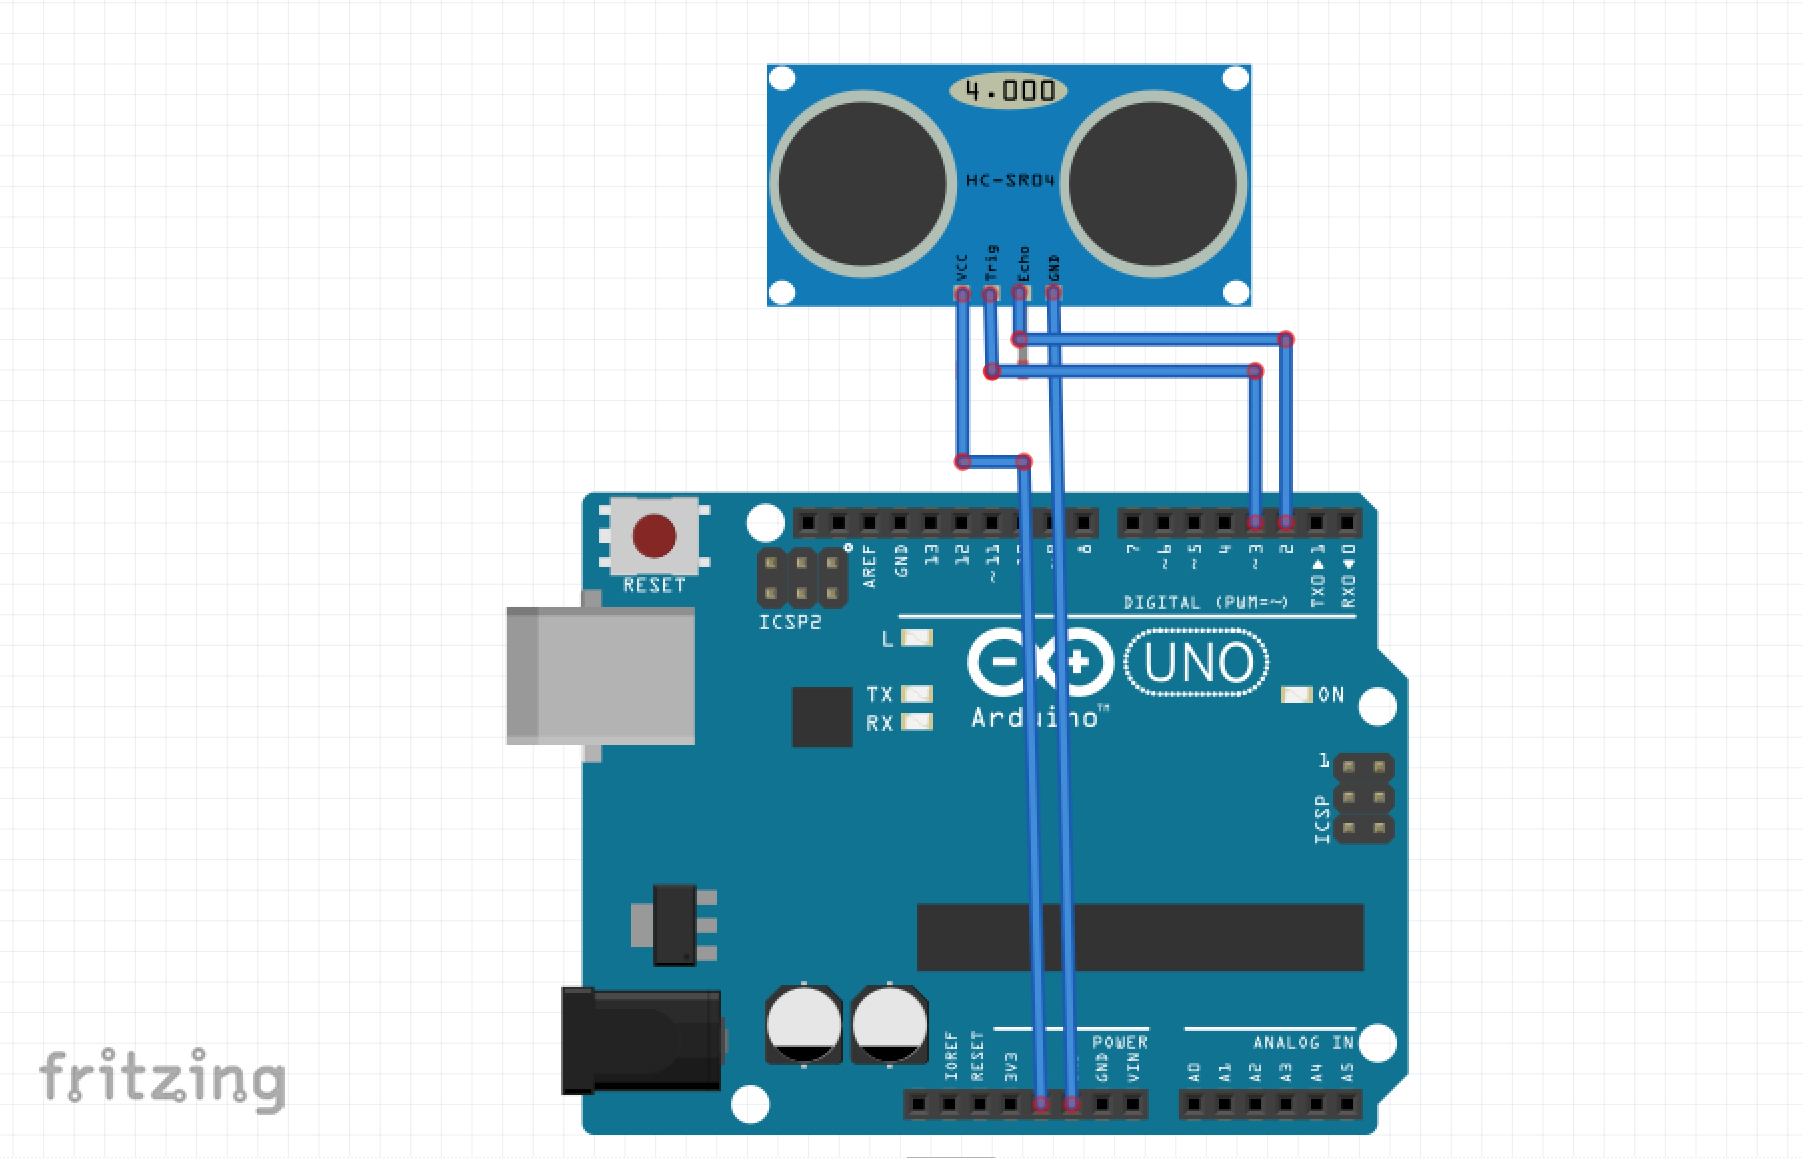
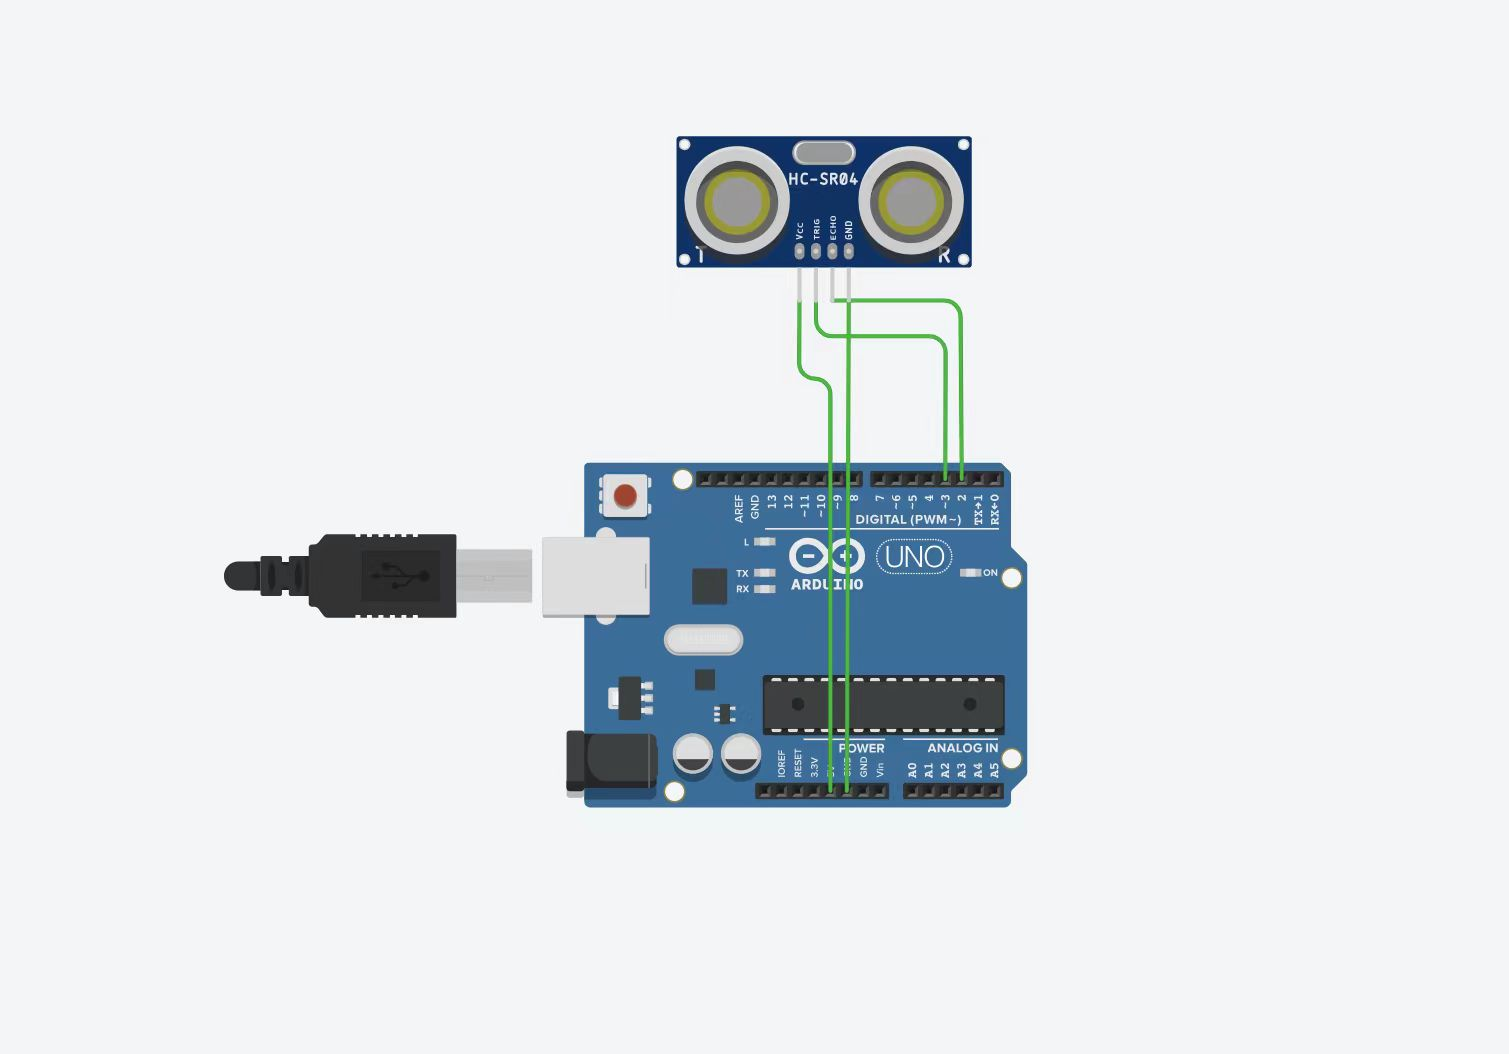
Site updated: 2023-11-26 19:06:34

diff --git a/2023/10/23/pro3/index.html b/2023/10/23/pro3/index.html
@@ -175,7 +175,7 @@
 <td>Enabled</td>
 </tr>
 </tbody></table>
-<p>(nozzle temperature 200°; platform temperature30℃；fill density 15%; base plate enabled)<br><img src="/2023zjudemini-hi2/images/1.gif"><br>2. Printing process<br><img src="/2023zjudemini-hi2/images/3.gif"></p>
+<p>(nozzle temperature 200°; platform temperature30℃；fill density 15%; base plate enabled)<br>3d print software layout the mode<br><img src="/2023zjudemini-hi2/images/3dx.png"><br><img src="/2023zjudemini-hi2/images/1.gif"><br>2. Printing process<br><img src="/2023zjudemini-hi2/images/3.gif"></p>
 <p>Tips：When the temperature is too low, it is easy for printing to fail. As shown in the figure below, the print sticks to the print pin.<br>Advice：Do not lower the temperature below 40° C<br><img src="/2023zjudemini-hi2/images/D4.png"><br></br></p>
 <center>
 
@@ -240,7 +240,7 @@
 <h1 id="Laser-Cutting"><a href="#Laser-Cutting" class="headerlink" title="Laser Cutting"></a>Laser Cutting</h1></center>
 
 <h2 id="Introduction-1"><a href="#Introduction-1" class="headerlink" title="Introduction"></a>Introduction</h2><h3 id="Types-of-Laser-Cutting"><a href="#Types-of-Laser-Cutting" class="headerlink" title="Types of Laser Cutting"></a>Types of Laser Cutting</h3><p>This process can be broken down into three main techniques - CO2 laser (for cutting, boring, and engraving), and neodymium (Nd) and neodymium yttrium-aluminium-garnet (Nd:YAG), which are identical in style, with Nd being used for high energy, low repetition boring and Nd:YAG used for very high-power boring and engraving.<br><img src="/2023zjudemini-hi2/images/D5.png"><br></br></p>
-<h3 id="Applications-of-Lasers-in-Manufacturing"><a href="#Applications-of-Lasers-in-Manufacturing" class="headerlink" title="Applications of Lasers in Manufacturing"></a>Applications of Lasers in Manufacturing</h3><p>1. <strong>Laser Drilling</strong><br>Lasers are incredibly accurate at drilling micron-sized holes in a wide range of materials, including metals, polymers, and ceramics.<br><img src="/2023zjudemini-hi2/images/D6.png"><br></br><br>2.<strong>Surface Texturing</strong>  <br>Lasers can create textures or patterned microstructures on the surfaces of components or products that improve physical performance, such as wear rates, grip, optical properties, and load capacity. Laser micro-texturing can create roughness on medical implants that make it easier for new tissue or bone to take hold and grow into the new implant, and patterns with features as small as 10 µm can be produced with very high depth resolution.<br><img src="/2023zjudemini-hi2/images/D6.png"><br></br></p>
+<h3 id="Applications-of-Lasers-in-Manufacturing"><a href="#Applications-of-Lasers-in-Manufacturing" class="headerlink" title="Applications of Lasers in Manufacturing"></a>Applications of Lasers in Manufacturing</h3><p>1. <strong>Laser Drilling</strong><br>Lasers are incredibly accurate at drilling micron-sized holes in a wide range of materials, including metals, polymers, and ceramics.<br><img src="/2023zjudemini-hi2/images/D6.png"><br></br><br>2.<strong>Surface Texturing</strong>  <br>Lasers can create textures or patterned microstructures on the surfaces of components or products that improve physical performance, such as wear rates, grip, optical properties, and load capacity. Laser micro-texturing can create roughness on medical implants that make it easier for new tissue or bone to take hold and grow into the new implant, and patterns with features as small as 10 µm can be produced with very high depth resolution.<br><img src="/2023zjudemini-hi2/images/D7.png"><br></br></p>
 <h3 id="References-1"><a href="#References-1" class="headerlink" title="References"></a>References</h3><p><a target="_blank" rel="noopener" href="https://laser24.co.uk/news/what-are-the-main-advantages-of-laser-cutting/">laser24.co.uk</a><br><a target="_blank" rel="noopener" href="https://www.twi-global.com/what-we-do/research-and-technology/technologies/welding-joining-and-cutting/lasers/laser-scabbling">Laser Scabbling - TWI (twi-global.com)</a><br></br></p>
 <h2 id="Power-and-Speed-Test"><a href="#Power-and-Speed-Test" class="headerlink" title="Power and Speed Test"></a>Power and Speed Test</h2><p>1.The software sets the power and speed of the test pattern hierarchically.<br><img src="/2023zjudemini-hi2/images/l1.png"><br></br><br>2.Cutting test with machine.<br><img src="/2023zjudemini-hi2/images/l2.png"><br></br><br>3.The two results of the laser cutting.<br><img src="/2023zjudemini-hi2/images/l3.png"><br></br><br>4.Statistics on cutting test results.</p>
 <table>
@@ -308,7 +308,7 @@
 </tr>
 </tbody></table>
 <h2 id="Cutting-Accuracy-Test"><a href="#Cutting-Accuracy-Test" class="headerlink" title="Cutting Accuracy Test"></a>Cutting Accuracy Test</h2><p>1.Import cutting target image to the machine.<br><img src="/2023zjudemini-hi2/images/l4.png"><br></br><br>2.Measure the actual length to see the error. The width of a single part is 5mm, the number is 10, the total statistical length is 46.96mm, and the error is 3.04mm. Therefore, the value of Kurf is 3.04&#x2F;10&#x3D;0.304mm.<br><img src="/2023zjudemini-hi2/images/l5.png"><br></br></p>
-<h2 id="Laser-Cutting-Practice"><a href="#Laser-Cutting-Practice" class="headerlink" title="Laser Cutting Practice"></a>Laser Cutting Practice</h2><h3 id="Preparation"><a href="#Preparation" class="headerlink" title="Preparation"></a>Preparation</h3><p>1.open fume extractor before run the machine<br>2.Turn on the master switch<br><img src="/2023zjudemini-hi2/images/ll1.png"><br>3.Turn on the laser<br><img src="/2023zjudemini-hi2/images/ll2.png"><br>4.Access computer<br><img src="/2023zjudemini-hi2/images/ll3.png"><br>5.Open the lid<br><img src="/2023zjudemini-hi2/images/ll4.png"><br>6.Moving Laser Position<br><img src="/2023zjudemini-hi2/images/ll5.png"><br>7.Mobile platforms for positioning 1<br><img src="/2023zjudemini-hi2/images/ll6.png"><br>8.Mobile platforms for positioning 2<br><img src="/2023zjudemini-hi2/images/ll7.png"><br></br></p>
+<h2 id="Laser-Cutting-Practice"><a href="#Laser-Cutting-Practice" class="headerlink" title="Laser Cutting Practice"></a>Laser Cutting Practice</h2><h3 id="Preparation"><a href="#Preparation" class="headerlink" title="Preparation"></a>Preparation</h3><p>1.open fume extractor before run the machine<br>2.Turn on the master switch<br><img src="/2023zjudemini-hi2/images/ll1.png"><br>3.Turn on the laser<br><img src="/2023zjudemini-hi2/images/ll2.png"><br>4.Access computer<br><img src="/2023zjudemini-hi2/images/ll3.png"><br>5.Open the lid<br><img src="/2023zjudemini-hi2/images/ll4.png"><br>6.Transport data<br><img src="/2023zjudemini-hi2/images/lsx.png"><br><img src="/2023zjudemini-hi2/images/lsx2.png"><br>7.Moving Laser Position<br><img src="/2023zjudemini-hi2/images/lsx3.png"><br>8.Mobile platforms for positioning 1<br><img src="/2023zjudemini-hi2/images/ll6.png"><br>9.Mobile platforms for positioning 2<br><img src="/2023zjudemini-hi2/images/ll7.png"><br></br></p>
 <h2 id="Laser-cutting-practice—using-wooden-to-cutting"><a href="#Laser-cutting-practice—using-wooden-to-cutting" class="headerlink" title="Laser cutting practice—using wooden to cutting"></a>Laser cutting practice—using wooden to cutting</h2><p>1.Draw the shape with Adobe Illustrator<br><img src="/2023zjudemini-hi2/images/l6.png"><br>2.Import the file into Laser CAD V8.12<br><img src="/2023zjudemini-hi2/images/l7.png"><br>3.Set different parameters (power&#x2F;speed) with different colors in Laser CAD V8.12<br><img src="/2023zjudemini-hi2/images/l8.png"><br>4.Open the Laser cutting machine to location and border running<br><img src="/2023zjudemini-hi2/images/l9.png"><br>5.Begin to laser cutting<br><img src="/2023zjudemini-hi2/images/7.gif"><br>6.The result of laser cutting<br><img src="/2023zjudemini-hi2/images/l10.png"><br></br></p>
 
 </div> 

diff --git a/2023/11/06/pro4/index.html b/2023/11/06/pro4/index.html
@@ -144,7 +144,7 @@
 <h1 id="Introduction-Exploration"><a href="#Introduction-Exploration" class="headerlink" title="Introduction &amp; Exploration"></a>Introduction &amp; Exploration</h1></center>
 
 
-<h2 id="Introduction-of-Processing"><a href="#Introduction-of-Processing" class="headerlink" title="Introduction of Processing"></a><strong>Introduction of Processing</strong></h2><p>Processing is a flexible software sketchbook and a language for learning how to code. Since 2001, Processing has promoted software literacy within the visual arts and visual literacy within technology. </p>
+<h2 id="Introduction-of-Processing"><a href="#Introduction-of-Processing" class="headerlink" title="Introduction of Processing"></a>Introduction of Processing</h2><p>Processing is a flexible software sketchbook and a language for learning how to code. Since 2001, Processing has promoted software literacy within the visual arts and visual literacy within technology. </p>
 <p>One of Processing’s shortcomings is its lack of web compatibility, but this is well addressed by its twin brother, p5.js. All of the drawing functions you use in Processing can be executed in p5.js, which means that when you want to implement your ideas on the web, it’s an easy transition without a lot of learning curve.</p>
 <p>With p5.js, you can use the entire browser as your “canvas”. With the plugin library, you can easily interact with other html5 elements such as text, input boxes, video, camera and audio, and you can even create games with P5.js. All in all, Processing offers a new option for all creative people to bring their interesting ideas to life.</p>
 <p><strong>1. The Origins of Processing</strong></p>
@@ -191,7 +191,7 @@
 <p><img src="/2023zjudemini-hi2/images/Processing%20a16505146ca44e018ba75d7f112bcc15/Screen_Shot_2023-10-31_at_20.00.01.png" alt="Screen Shot 2023-10-31 at 20.00.01.png"></p>
 <h2 id="second-demo-in-processing-and-arduino"><a href="#second-demo-in-processing-and-arduino" class="headerlink" title="second demo in processing and arduino"></a>second demo in processing and arduino</h2><p>We did one demo in Processing and Arduino, which can communicate with each other.</p>
 <p>Ultrasonic sensor controls the color of the small square in Processing. This case is based on ultrasonic sensor, through the arduino output signal to control the color change of the small square in Processing, so as to realize the interaction between the software.</p>
-<p>First make out the circuit diagram in the simulation software: fritzing.</p>
+<p>First make out the circuit diagram in the simulation software: Thinkercard.</p>
 <p><img src="/2023zjudemini-hi2/images/pr2.png"></p>
 <p>In arduino, the Gao Diping signal in ultrasonic sensor is transmitted through serial port.</p>
 <p><img src="/2023zjudemini-hi2/images/Processing%20a16505146ca44e018ba75d7f112bcc15/Screen_Shot_2023-11-06_at_22.59.04.png" alt="Screen Shot 2023-11-06 at 22.59.04.png"></p>

diff --git a/2023/10/30/pro5/index.html b/2023/10/30/pro5/index.html
@@ -191,6 +191,7 @@
 <p><strong>The solution</strong>: I found this strip case that diffuses the light well and you can screw it to a shelf, for example, if you want a permanent solution.</p>
 <h2 id="Hardware-Require"><a href="#Hardware-Require" class="headerlink" title="Hardware Require"></a>Hardware Require</h2><p>1.Arduino UNO<br>2.Jumper wires<br>3.DIYables USB Cable for Arduino Uno<br>4.Ultrasonic sensor <br>5.WS2812B RGB LED Circle </p>
 <h3 id="Selection-of-input-module-and-output-module-1"><a href="#Selection-of-input-module-and-output-module-1" class="headerlink" title="Selection of input module and output module"></a>Selection of input module and output module</h3><p><a target="_blank" rel="noopener" href="https://arduinogetstarted.com/tutorials/arduino-ultrasonic-sensor">Ultrasonic sensor</a> is used to measure the distance to an object by using ultrasonic waves.This sensor reads from 2cm to 400cm (0.8inch to 157inch) with an accuracy of 0.3cm (0.1inches), which is good for most hobbyist projects. In addition, this particular module comes with ultrasonic transmitter and receiver modules. <br><img src="/2023zjudemini-hi2/images/A2.png"></p>
+<h3 id="Tinkercad-diagram-1"><a href="#Tinkercad-diagram-1" class="headerlink" title="Tinkercad diagram"></a>Tinkercad diagram</h3><p><img src="/2023zjudemini-hi2/images/addd1.png"></p>
 <p>Here’s the pinout of the HC-SR04 Ultrasonic Sensor.</p>
 <table>
 <thead>
